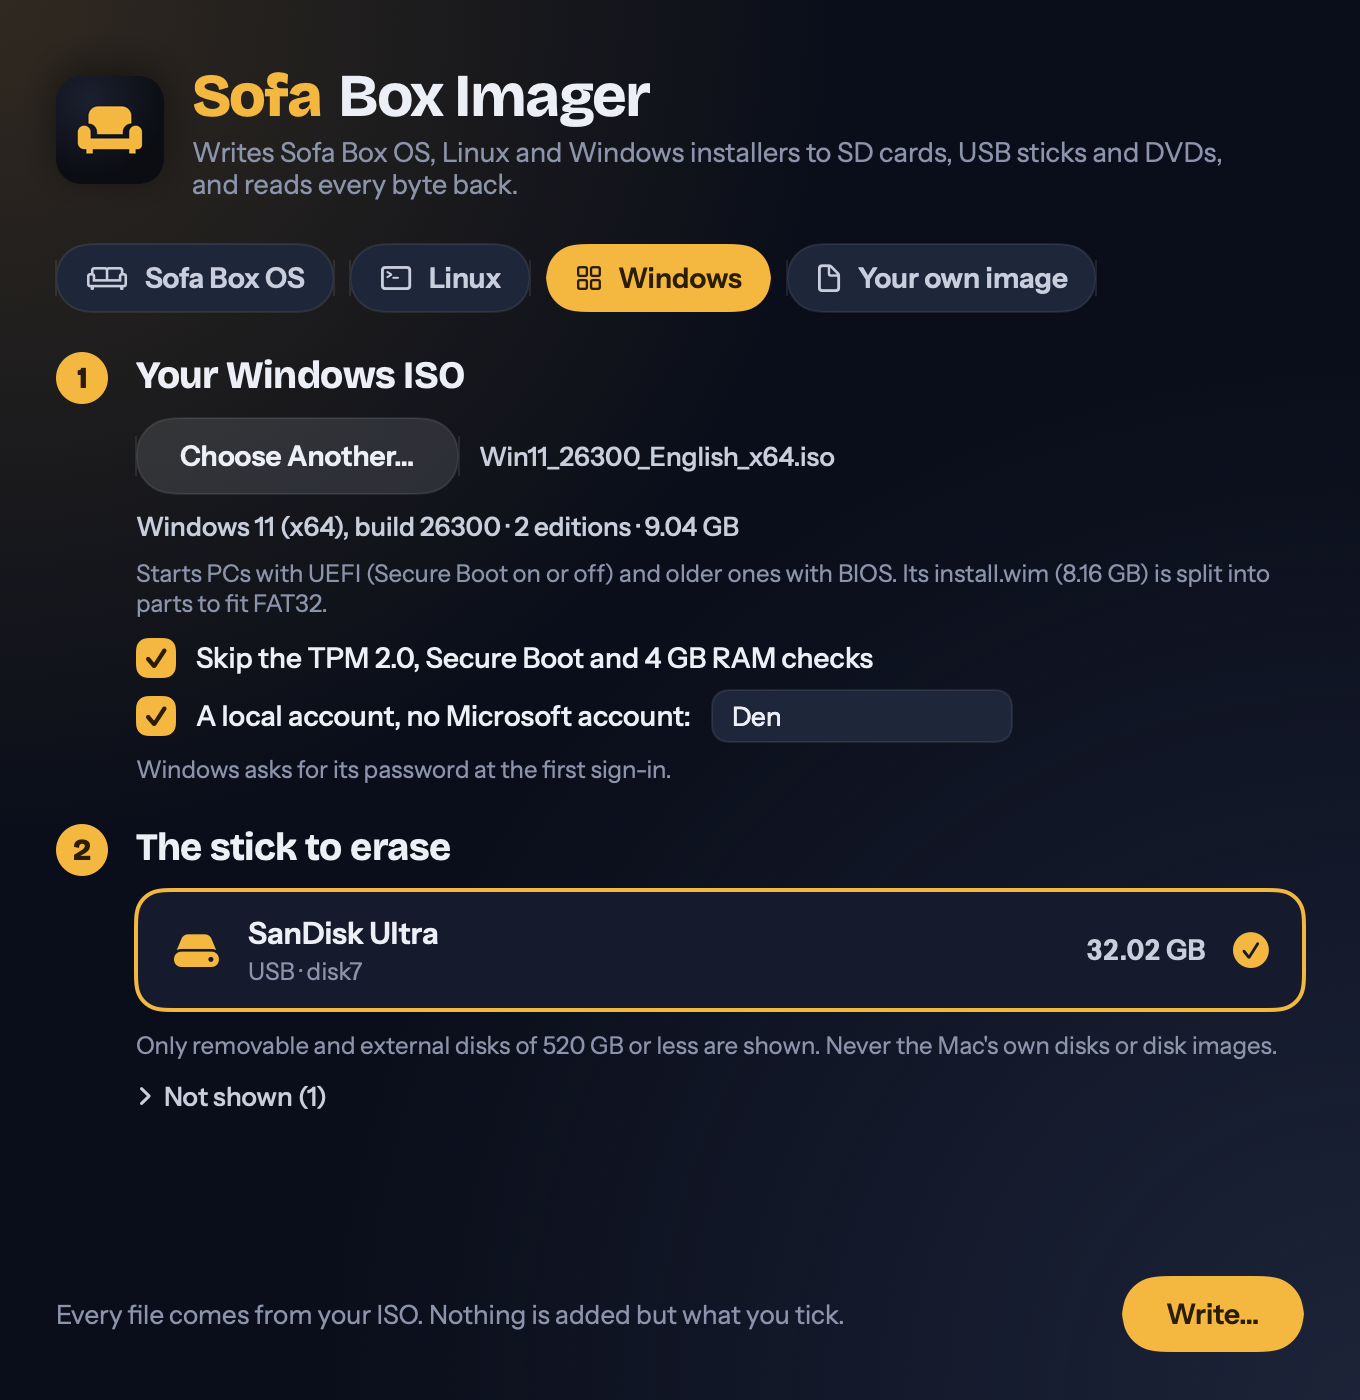
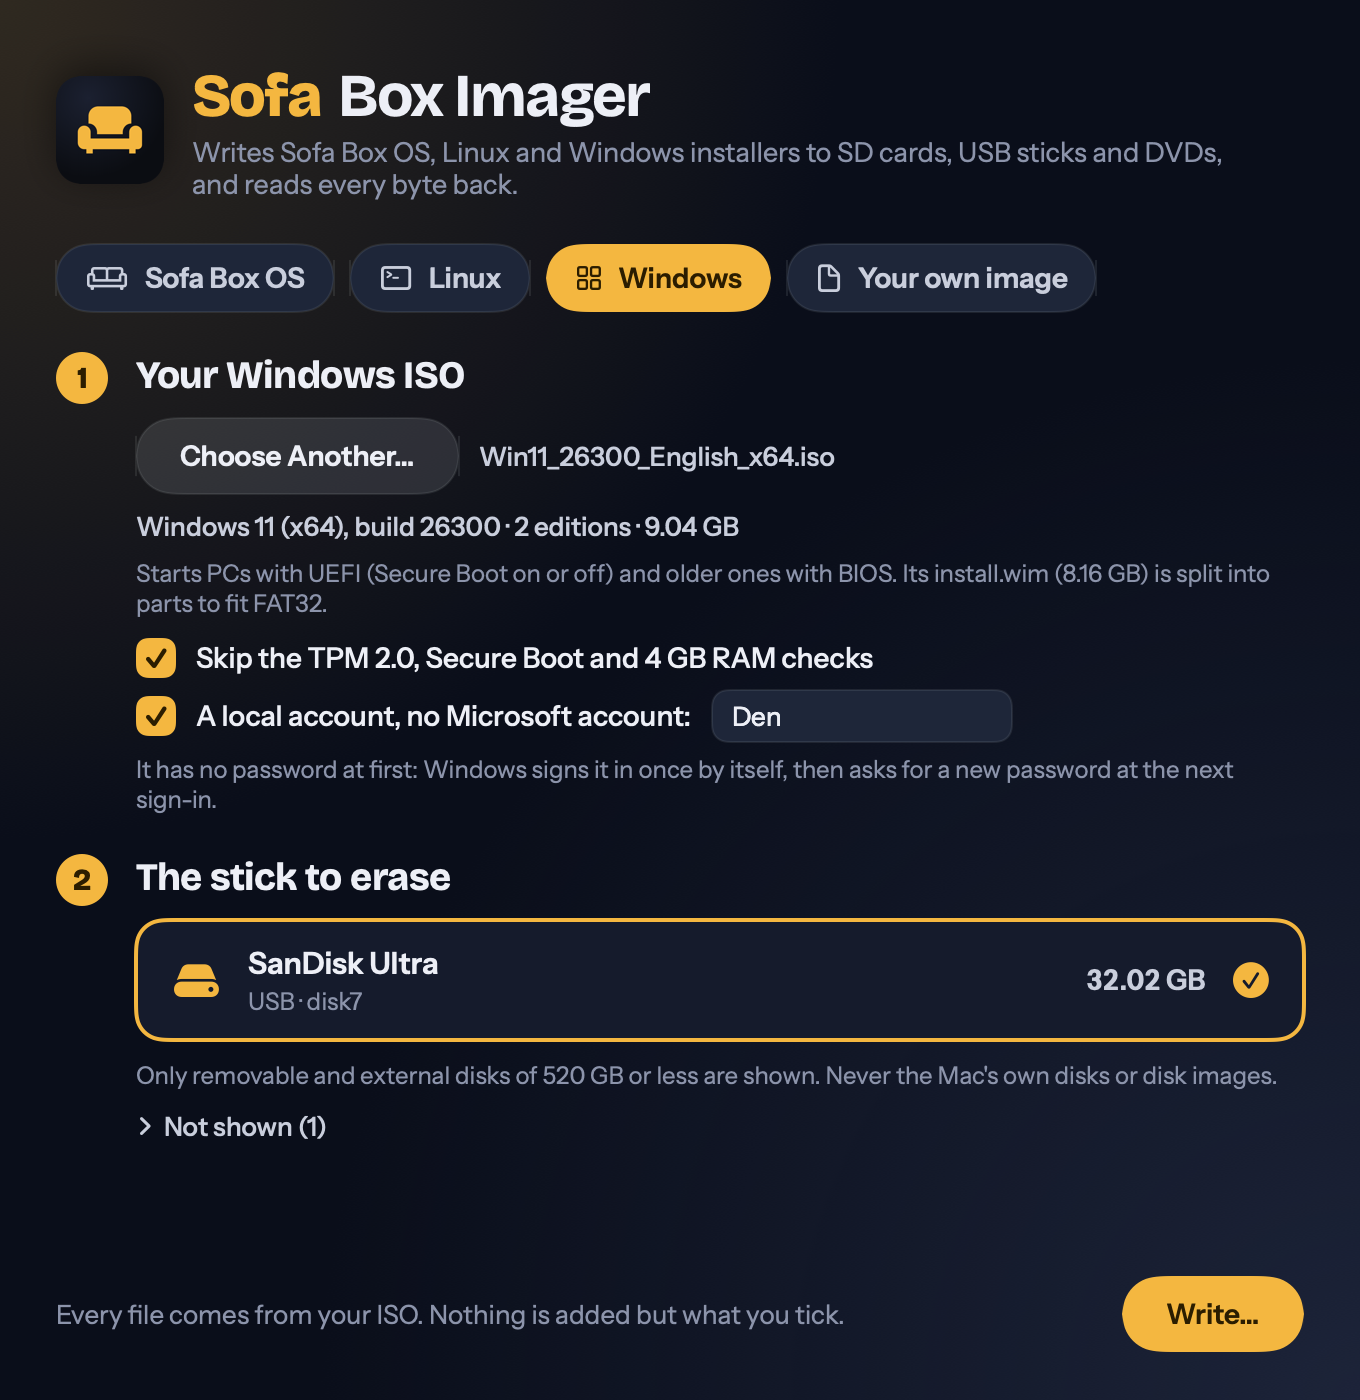
Windows 11 local account: say what it does (no password until Windows asks for a new one at the second sign-in), and write up the whole install from the stick in a virtual PC

Changed region(s): [[0.0309, 0.5221, 0.9574, 0.8293], [0.7103, 0.5221, 0.8956, 0.5529]]

diff --git a/imager/Sources/ImagerKit/WindowsMedia.swift b/imager/Sources/ImagerKit/WindowsMedia.swift
@@ -156,8 +156,9 @@ public struct WindowsMedia: Equatable {
 public struct WindowsOptions: Equatable {
     /// Setup skips its TPM 2.0, Secure Boot and 4 GB RAM checks (Microsoft's own LabConfig keys).
     public var skipHardwareChecks = false
-    /// A local account with this name instead of a Microsoft account: the network isn't required to finish setting up,
-    /// and the account's password is set at its first sign-in.
+    /// A local account with this name instead of a Microsoft account: the network isn't required to finish setting up.
+    /// The account has no password until its second sign-in: Windows signs it in once by itself at the end of setting
+    /// up, and from then on asks for a new password before letting it in.
     public var localAccount: String?
 
     public init(skipHardwareChecks: Bool = false, localAccount: String? = nil) {

diff --git a/imager/Sources/SofaBoxImager/ContentView.swift b/imager/Sources/SofaBoxImager/ContentView.swift
@@ -255,7 +255,8 @@ private struct ElevenSwitches: View {
             if let why = model.optionsProblem {
                 Text(why).font(SofaFonts.text(12)).foregroundStyle(Color.alert)
             } else if model.useLocalAccount {
-                Text("Windows asks for its password at the first sign-in.").font(SofaFonts.text(12)).foregroundStyle(Color.mist)
+                Text("It has no password at first: Windows signs it in once by itself, then asks for a new password at the next sign-in.")
+                    .font(SofaFonts.text(12)).foregroundStyle(Color.mist).fixedSize(horizontal: false, vertical: true)
             }
         }
         .padding(.top, 2)

diff --git a/imager/README.md b/imager/README.md
@@ -254,7 +254,9 @@ What it does with the ISO (`WindowsStick` in `Sources/ImagerKit/WindowsMedia.swi
   (`BypassTPMCheck`, `BypassSecureBootCheck`, `BypassRAMCheck`). Microsoft doesn't support Windows 11 on PCs that fail
   them.
 - **A local account, no Microsoft account:** a local administrator with the name you type, Setup's network step
-  allowed to be skipped (`BypassNRO`), and the account's password set at its first sign-in.
+  allowed to be skipped (`BypassNRO`). **The account has no password at first:** Windows signs it in once by itself
+  at the end of setting up, and at the next sign-in says "The user's password must be changed before signing in" and
+  asks for one (a first-logon command, `net user NAME /logonpasswordchg:yes`, sees to that).
 
 Ticked, they're written as `autounattend.xml` at the stick's root, which Setup reads by itself. It holds only those
 settings: nothing that chooses, wipes or partitions a disk, and no product key. An ISO with its own `autounattend.xml`
@@ -348,7 +350,7 @@ Ubuntu's `ovmf-generic` package with Microsoft's Secure Boot keys enrolled and S
 | Media | Written | UEFI, Secure Boot on | BIOS |
 |---|---|---|---|
 | Windows 11, build 26300 (Microsoft's ISO, 9.05 GB, its SHA-256 as Microsoft lists it) | 35 s, `install.wim` (8.16 GB) split into 3 parts | Windows Setup; inside it `UEFISecureBootEnabled = 1` | Our MBR and boot sector start BOOTMGR, then Windows Setup; the 11 editions listed from `install.swm`; Setup then refuses the virtual PC for having no TPM 2.0 and no Secure Boot, as Microsoft's own media does |
-| Windows 11, both switches ticked | 30 s | Setup's LabConfig keys set by the stick's `autounattend.xml`; the editions listed; Setup's hardware check passed in a PC with no TPM, on to the license terms | — |
+| Windows 11, both switches ticked | 30 s | Setup's LabConfig keys set by the stick's `autounattend.xml`; the editions listed; Setup's hardware check passed in a PC with no TPM; **then a whole install** (below) | — |
 | Windows 10 22H2 (Microsoft's ISO, 6.14 GB, its SHA-256 as Microsoft lists it) | 17 s, `install.wim` (5.18 GB) split into 2 parts | Windows Setup; `UEFISecureBootEnabled = 1` | Windows Setup; the 11 editions listed from `install.swm` |
 | Debian 13.7.0 netinst, downloaded by the app from cdimage.debian.org | 69 s, read back as Debian's SHA-256 | Debian's UEFI installer menu (its shim is Microsoft-signed) | "Debian GNU/Linux installer menu (BIOS mode)" |
 | Fedora Workstation 45, as Your own image (Fedora's ISO, its SHA-256 as Fedora lists it) | 7 s, read back as Fedora's SHA-256 | GRUB's menu (through Fedora's Microsoft-signed shim), then Fedora's kernel starting | GRUB starting its default entry; Fedora's kernel and systemd up after about 5 minutes of emulation |
@@ -357,9 +359,20 @@ Ubuntu's `ovmf-generic` package with Microsoft's Secure Boot keys enrolled and S
 The Windows 11 stick was also checked from the Mac: `fsck_msdos` found nothing wrong (1,073 files), and macOS's own
 FAT and UDF drivers show every file on it the same as on the ISO, but for `install.wim`, which is the three parts.
 
-**Not proven in a virtual PC:** a whole Windows install from the stick (Setup copying Windows from the split parts to a
-drive, and the local account switch in Windows' first-start screens): that means accepting Microsoft's license terms
-in Setup, which is the owner's to say yes to, and about 20 GB of disk. Windows 7 (Microsoft no longer offers its ISO;
+**A whole Windows 11 install from the stick** (on the owner's yes to accepting Microsoft's license terms in the virtual
+PC's Setup): the switches stick, in a virtual PC with UEFI, Secure Boot on, no TPM and no network card. Setup copied
+Windows 11 Home from the three split parts onto an empty 64 GB drive (15.4 GB written) and restarted; the stick was then
+taken out and the PC started Windows from its own drive under Secure Boot. Windows' own log
+(`Windows\Panther\UnattendGC\setupact.log`) shows each switch applied: `BypassNRO` set, the account "Sofa" made and
+added to Administrators, its first-logon command set. On the first-start screens the network page offered "I don't
+have internet" (Windows 11 Home shows that only with `BypassNRO`), no account page followed, and Windows signed in to
+"Sofa" by itself, to the desktop. Signed out and back in, it said "The user's password must be changed before signing
+in". Two things in that run were the emulation's, not the stick's: with QEMU's "max" processor Windows crashed at the
+country page (stop 0x3B, `c0000096`, a privileged instruction in the kernel; its own crash reports say so) and was
+started again as a 6th-generation Intel processor, and two first-start pages (keyboard, privacy settings) timed out
+("OOBEKEYBOARD", "OOBESETTINGS") on the slow virtual PC and were skipped, as Windows offers.
+
+**Not proven in a virtual PC:** Windows 7 (Microsoft no longer offers its ISO;
 its parts are tested with made-up ISOs only), 8.1, 32-bit and ARM64 Windows; Ubuntu and Linux Mint (their lists are
 read from their sites and turned into the right files, and they're written the same way as Debian, but they weren't
 downloaded); Fedora's live desktop: under emulation it hadn't finished starting after 15 minutes (on BIOS, with 2 GB, systemd stopped
@@ -400,8 +413,9 @@ read-back, nothing mounting, the eject), and on the PC's side:
 1. **A Windows 11 stick starts a PC with UEFI and Secure Boot on**, and an older one with BIOS (or a newer one with CSM
    on), and Setup installs Windows from it, the split parts included, onto the PC's drive.
 2. **A Windows 10 stick**, the same; and **Windows 7** on a PC with legacy boot, since no Windows 7 ISO was to hand.
-3. **The Windows 11 switches** on a real PC: Setup goes on without TPM 2.0, and the local account is made, its password
-   asked for at the first sign-in.
+3. **The Windows 11 switches** on a real PC: Setup goes on without TPM 2.0, and the local account is made, with no
+   password until Windows asks for one at the second sign-in. And a processor Microsoft doesn't list (the switch
+   doesn't skip that check, and the virtual PC's processors didn't trigger it).
 4. **A Linux stick** from the list starts a PC (Ubuntu, Debian, Fedora, Mint), and **Raspberry Pi OS** a Pi.
 5. **Sticks of other sizes and makes**: our boot code reads BOOTMGR by LBA, which every PC that starts from USB has;
    a very old PC that only starts USB sticks as floppies won't start it.

diff --git a/imager/CHANGES.md b/imager/CHANGES.md
@@ -29,8 +29,8 @@ the same disk rule, the first megabyte held back and written last, every byte re
   - Windows 7's UEFI loader is only inside its ISO's UEFI boot image; it's copied out of it. Windows 7 still wants a PC
     with legacy boot (CSM) on and Secure Boot off, and the window says so.
   - **Windows 11 switches, each off unless ticked:** skip Setup's TPM 2.0, Secure Boot and 4 GB RAM checks
-    (Microsoft's LabConfig keys), and a local account instead of a Microsoft account (its password is set at the first
-    sign-in). Ticked, they're written as an `autounattend.xml` at the stick's root; nothing else about Setup changes,
+    (Microsoft's LabConfig keys), and a local account instead of a Microsoft account (it has no password at first:
+    Windows signs it in once by itself, then asks for a new password at the next sign-in). Ticked, they're written as an `autounattend.xml` at the stick's root; nothing else about Setup changes,
     and nothing in it chooses or erases a disk.
 - **Your own image.** An `.iso` that's also a disk (every Linux ISO now), an `.img`, or a packed `.img.xz`, written
   whole and read back against what was read. A Windows ISO is sent to Windows; an ISO that only starts from a DVD is
@@ -44,6 +44,8 @@ the same disk rule, the first megabyte held back and written last, every byte re
 and started in QEMU on this Mac (UEFI with OVMF and Microsoft's Secure Boot keys, and BIOS with SeaBIOS): Windows 11
 (build 26300) and Windows 10 (22H2) from Microsoft's ISOs to Windows Setup both ways, Secure Boot read back as on from
 inside Windows PE, the editions listed from the split parts, and the Windows 11 switch passing Setup's check in a PC
-with no TPM; Debian 13.7 (downloaded by the app from Debian) and Fedora 45 to their boot menus both ways; Raspberry Pi
+with no TPM. Then a whole Windows 11 install from the switches stick (UEFI, Secure Boot on, no TPM, no network):
+Windows copied from the split parts, started from its own drive, the local account made with no Microsoft account and
+no network, and its new password asked for at the second sign-in. Debian 13.7 (downloaded by the app from Debian) and Fedora 45 to their boot menus both ways; Raspberry Pi
 OS Lite written and read back as Raspberry Pi's SHA-256 (a Pi can't be started in QEMU here). The imager README has
 the details. **No real stick has been written and no real PC started from one yet.**
